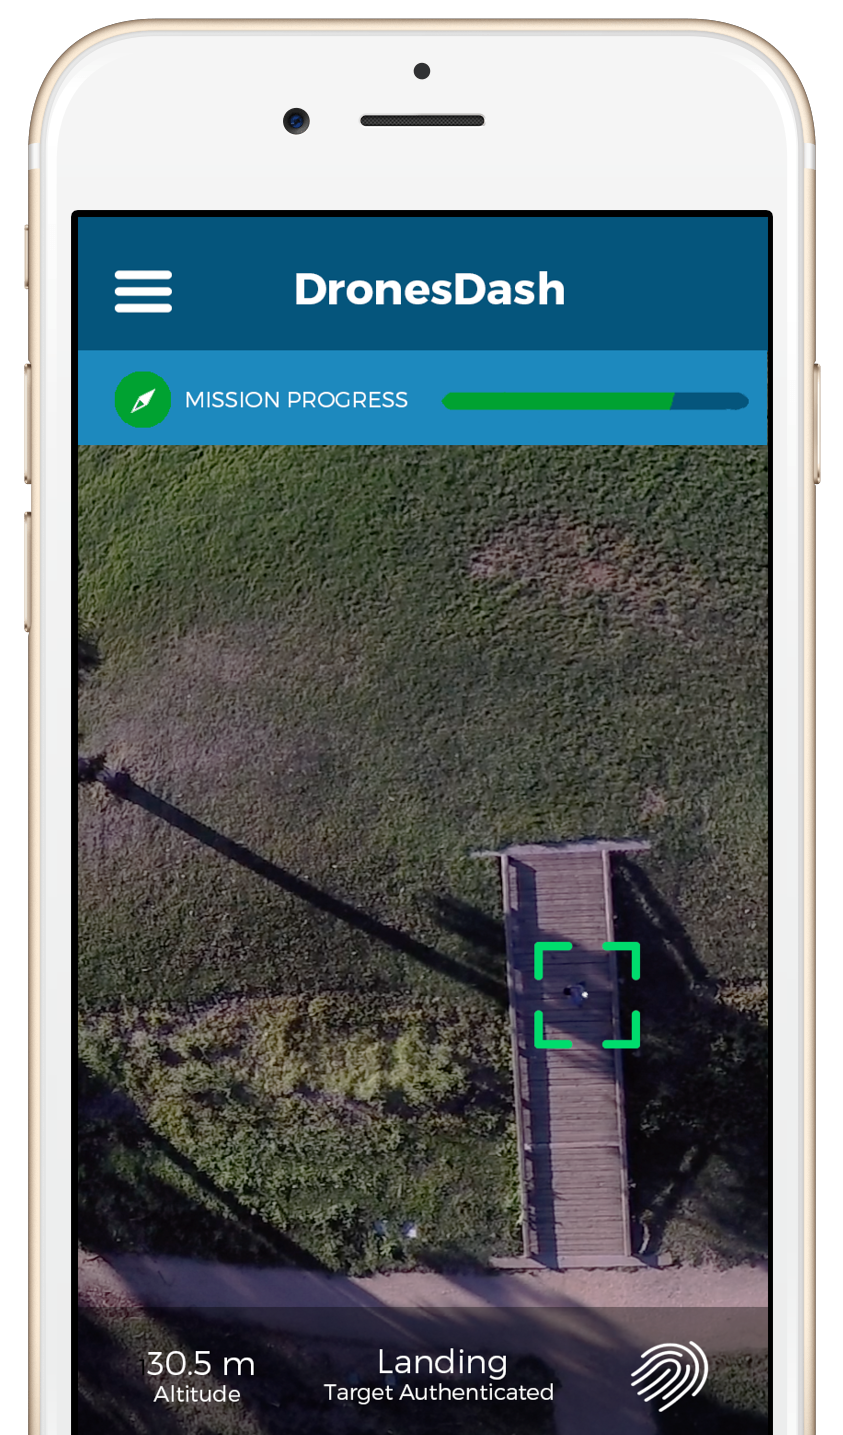
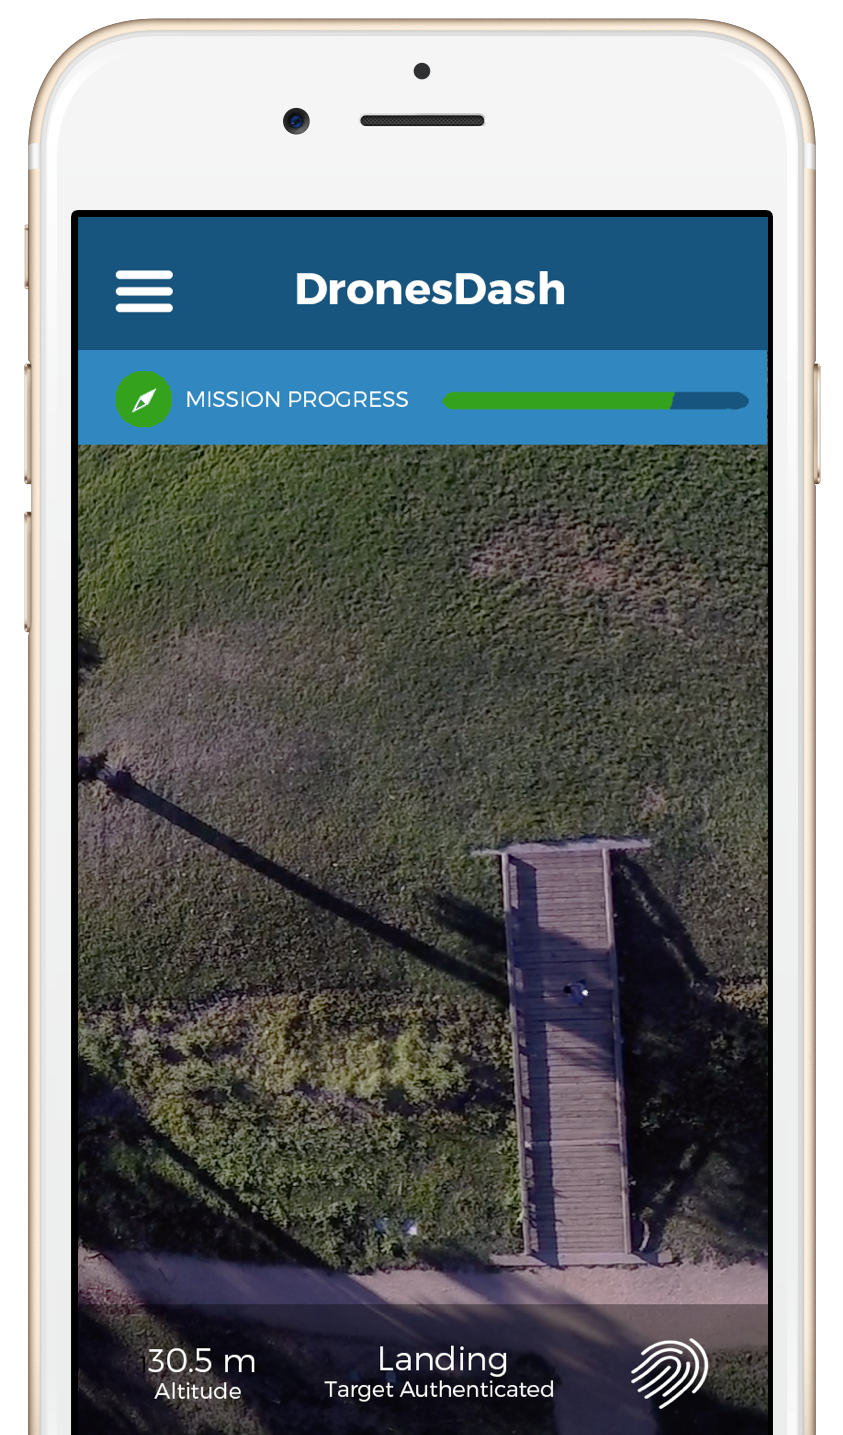
added animation

diff --git a/index.html b/index.html
@@ -66,7 +66,7 @@
                     <div class="row">
                         <div class="col-sm-7">
                             <div class="header-content">
-                                <div class="header-content-inner" style="margin-top: 18%">
+                                <div class="header-content-inner" style="margin-top: 15%">
                                     <h2 style="font-size: 48px">At DronesDash, we're making <br>drone delivery a reality.</h2>
                                     <br>
                                     <h4 style="font-size: 20px">We're partnering with various companies in the Silicon Valley</h4>
@@ -83,9 +83,21 @@
                                 <div class="device-mockup iphone6_plus portrait white">
                                     <div class="device">
                                         <div class="screen">
-                                            <!-- Demo image for screen mockup, you can put an image here, some HTML, an animation, video, or anything else! -->
                                             <center>
-                                                <img src="img/phoneapp.png" class="img-responsive" width="80%" alt="">
+                                                <div class="container" style="width:100%">
+                                                    <img src="img/phoneapp.png" class="img-responsive" width="83%" alt="">
+                                                    <svg id="apptarget" class="img-responsive" style="width: 9%; position: absolute; z-index: 100; top:35%; left: 58%"xmlns="http://www.w3.org/2000/svg" version="1.0" width="626.000000pt" height="626.000000pt" viewBox="0 0 626.000000 626.000000" preserveAspectRatio="xMidYMid meet">
+                                                        <g transform="translate(0.000000,626.000000) scale(0.100000,-0.100000)" fill="#000000" stroke="none">
+                                                            <path class="apptargetpath" fill="#f72720" d="M175 6247 c-81 -31 -136 -87 -163 -166 -9 -25 -12 -276 -12 -950 l0 -916 24 -50 c80 -174 316 -195 428 -39 16 23 34 59 38 80 5 21 10 380 10 796 l0 757 783 3 c716 3 785 4 813 20 129 70 179 209 120 333 -28 60 -66 97 -126 124 -44 20 -60 21 -965 20 -679 0 -928 -4 -950 -12z"/>
+                                                            <path class="apptargetpath" fill="#f72720" d="M4174 6241 c-103 -47 -159 -138 -152 -247 7 -106 85 -202 184 -224 21 -5 377 -10 796 -10 l757 0 3 -782 c3 -852 -1 -792 61 -872 88 -111 277 -113 373 -4 68 77 65 24 62 1048 -3 892 -4 926 -22 964 -25 50 -72 97 -122 122 -38 18 -72 19 -969 21 -887 3 -932 2 -971 -16z"/>
+                                                            <path class="apptargetpath" fill="#f72720" d="M145 2217 c-60 -28 -106 -79 -129 -138 -15 -40 -16 -129 -14 -969 3 -892 4 -926 22 -964 25 -50 72 -97 122 -122 38 -18 72 -19 964 -22 834 -2 929 -1 968 14 93 35 152 112 160 211 8 106 -34 186 -127 241 l-46 27 -782 3 -783 3 0 757 c0 416 -5 775 -10 796 -12 55 -59 116 -115 151 -66 41 -158 46 -230 12z"/>
+                                                            <path class="apptargetpath" fill="#f72720" d="M5905 2216 c-52 -23 -92 -63 -123 -120 -16 -28 -17 -97 -20 -813 l-3 -782 -782 -3 c-861 -3 -799 1 -877 -65 -105 -88 -104 -276 2 -369 77 -68 24 -65 1048 -62 892 3 926 4 964 22 50 25 97 72 122 122 18 38 19 72 22 964 2 840 1 929 -14 969 -51 135 -208 198 -339 137z"/>
+                                                        </g>
+                                                    </svg>
+                                                    <svg style="position: absolute; top: 68.9%; left: 63.6%" viewBox="0 0 200 200" xmlns="http://www.w3.org/2000/svg">
+                                                        <circle class="flash" fill="#fff" cx="0.8" cy="0.8" r="0.8"/>
+                                                    </svg>
+                                                </div>
                                             </center>
                                         </div>
 

diff --git a/js/scripts.js b/js/scripts.js
@@ -1,5 +1,46 @@
 $(document).ready(function() {
 
+
+	$("#apptarget")
+		.animate({
+			"left": [ "28%", "swing" ],
+			"top": [ "48%", "swing" ]
+		},800)
+		.delay(300)
+		.animate({
+			"left": [ "45%", "swing" ],
+			"top": [ "82%", "swing" ]
+		},800)
+		.delay(300)
+		.animate({
+			"left": [ "59.7%", "swing" ],
+			"top": [ "65.5%", "swing" ]
+		},800, function () {
+			$(".apptargetpath").delay(500).queue(function () {
+				$(".apptargetpath").attr({
+					"fill": "#23DA72"
+				})
+			})
+		})
+
+
+		var count = 0
+		var pattern = [0,1,1,1,0,1,0,1]
+
+		setInterval(function(){
+			var value = pattern[count%8]
+			if(value == 1){
+				$(".flash").attr("fill", "#fff")
+			}else{
+				$(".flash").attr("fill", "#000")
+			}
+
+
+			count++
+		}, 200)
+
+
+
 	/***************** Waypoints ******************/
 
 	$('.wp1').waypoint(function() {

diff --git a/team.html b/team.html
@@ -122,7 +122,7 @@
                         </div>
                         <br>
                         <div>
-                            <table class="founder-group" style="border-top: 1px solid #c9c9c9;">
+                            <table class="founder-group" style="border-top: 1px solid #c9c9c9; border-bottom: 1px solid #c9c9c9;">
                                 <tr>
                                     <th style="width: 160px; padding-top: 20px">
                                         <img src="img/nick.png" class="founder-picture">
